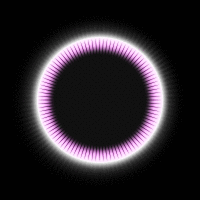
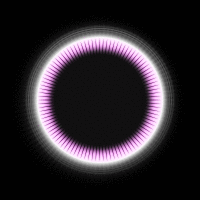
Increase fancyness of fancy progress dialog

diff --git a/dispcalGUI/wxwindows.py b/dispcalGUI/wxwindows.py
@@ -171,13 +171,18 @@ class AnimatedBitmap(wx.PyControl):
 			first_frame, last_frame = self.range
 		else:
 			first_frame, last_frame = 0, -1
+		if first_frame < 0:
+			first_frame += len(self._bitmaps)
 		if last_frame < 0:
 			last_frame += len(self._bitmaps)
-		if self.frame < last_frame:
-			self.frame += 1
+		frame = self.frame
+		if frame < last_frame:
+			frame += 1
 		elif self.loop:
-			self.frame = first_frame
-		self.Refresh()
+			frame = first_frame
+		if frame != self.frame:
+			self.frame = frame
+			self.Refresh()
 
 	def Play(self, fps=20):
 		self._timer.Start(1000.0 / fps)
@@ -3766,11 +3771,51 @@ class BetterPyGauge(pygauge.PyGauge):
 		self.Unbind(wx.EVT_TIMER)
 		self.Bind(EVT_BETTERTIMER, self.OnTimer, self._timer)
 		self.Bind(wx.EVT_WINDOW_DESTROY, self.OnDestroy)
-		self.Start(50)
+		self.Start()
 	
 	def OnDestroy(self, event):
 		self._timer.Stop()
 		del self._timer
+
+	def OnPaint(self, event):
+		"""
+		Handles the ``wx.EVT_PAINT`` event for L{PyGauge}.
+
+		:param `event`: a `wx.PaintEvent` event to be processed.
+		"""
+
+		dc = wx.BufferedPaintDC(self)
+		gc = wx.GraphicsContext.Create(dc)
+		dc.SetBackground(wx.Brush(self.Parent.BackgroundColour))
+		dc.Clear()
+
+		rect = self.GetClientRect()
+
+		if self._border_colour:
+			gc.SetPen(wx.Pen(self._border_colour))
+		else:
+			gc.SetPen(wx.Pen(self.BackgroundColour))
+		gc.SetBrush(wx.Brush(self.BackgroundColour))
+		gc.DrawRoundedRectangle(rect.X, rect.Y, rect.Width - 1,
+								rect.Height - 1, (rect.Height - 1) / 2)
+
+		pad = self.GetBorderPadding()
+		if self._border_colour:
+			pad += 1
+		if pad:
+			rect.Deflate(pad, pad)
+
+		if self._barGradientSorted:
+			for i, gradient in enumerate(self._barGradientSorted):
+				c1, c2 = gradient
+				w = max(rect.Width * (float(self._valueSorted[i]) / self._range),
+						rect.Height)
+				gc.SetBrush(gc.CreateLinearGradientBrush(rect.X, rect.Y,
+														 rect.Y + w,
+														 rect.Y, c1, c2))
+				gc.SetPen(wx.TRANSPARENT_PEN)
+				gc.DrawRoundedRectangle(rect.X, rect.Y, w, rect.Height,
+										(rect.Height) / 2)
 
 	def OnTimer(self, event):
 		gradient = self._barGradient
@@ -4176,7 +4221,7 @@ class ProgressDialog(wx.Dialog):
 	
 	def __init__(self, title=appname, msg="", maximum=100, parent=None, style=None, 
 				 handler=None, keyhandler=None, start_timer=True, pos=None,
-				 pauseable=False, fancy=True):
+				 pauseable=False, fancy=True, allow_close=False):
 		if style is None:
 			style = (wx.PD_APP_MODAL | wx.PD_ELAPSED_TIME |
 					 wx.PD_REMAINING_TIME | wx.PD_CAN_ABORT | wx.PD_SMOOTH)
@@ -4206,6 +4251,7 @@ class ProgressDialog(wx.Dialog):
 		self.skip = False
 		self.paused = False
 		self.progress_type = 0  # 0 = processing, 1 = measurement
+		self.allow_close = allow_close
 
 		margin = 12
 
@@ -4253,8 +4299,7 @@ class ProgressDialog(wx.Dialog):
 		if fancy:
 			self.gauge = BetterPyGauge(self, wx.ID_ANY, range=maximum,
 									   size=(-1, 4))
-			self.gauge.SetBackgroundColour("#202020")
-			self.gauge.SetBorderColour("#0066CC")
+			self.gauge.BackgroundColour = "#003366"
 			self.gauge.SetBarGradients([("#0099CC", "#00CCFF"),
 									    ("#0088BB", "#00BBEE"),
 									    ("#0077AA", "#00AADD"),
@@ -4422,7 +4467,7 @@ class ProgressDialog(wx.Dialog):
 		if hasattr(self, "cancel"):
 			self.cancel.Disable()
 		self.pause_continue.Disable()
-		if not self.timer.IsRunning():
+		if not self.timer.IsRunning() and self.allow_close:
 			self.Destroy()
 		elif self.gauge.GetValue() == self.gauge.GetRange():
 			event.Skip()
@@ -4539,10 +4584,15 @@ class ProgressDialog(wx.Dialog):
 		if self.progress_type == 0:
 			# Processing
 			range = (60, 68)
-		else:
+		elif self.progress_type == 1:
 			# Measuring
+			range = (-1, -1)
+		else:
+			# Generating test patches
 			range = (27, 36)
 		self.animbmp.SetBitmaps(bitmaps, range=range, loop=True)
+		if range[0] == -1:
+			self.animbmp.frame = len(self.animbmp._bitmaps) - 1
 		wx.CallLater(50, lambda: self and self.IsShown() and
 								  self.animbmp.Play(20))
 
@@ -4569,7 +4619,10 @@ class ProgressDialog(wx.Dialog):
 		else:
 			bitmaps = ProgressDialog.bitmaps[progress_type] = []
 			if progress_type == 0:
-				# Processing
+				# Animation for processing
+				for pth in get_data_path("theme/shutter_anim", r"\.png$") or []:
+					im = wx.Image(pth)
+					bitmaps.append(im)
 				for pth in get_data_path("theme/jet_anim", r"\.png$") or []:
 					im = wx.Image(pth)
 					# Blend red
@@ -4577,28 +4630,40 @@ class ProgressDialog(wx.Dialog):
 					# Adjust for background
 					im.AdjustMinMax(1.0 / 255 * 0x14)
 					bitmaps.append(im)
-				# Needs to be exactly 8 images
-				if bitmaps and len(bitmaps) == 8:
+				# Needs to be exactly 17 images
+				if bitmaps and len(bitmaps) == 17:
 					for i in xrange(7):
-						bitmaps.extend(bitmaps[:8])
-					bitmaps.extend(bitmaps[:4])
+						bitmaps.extend(bitmaps[9:17])
+					bitmaps.extend(bitmaps[9:13])
 					# Fade in
-					for i, im in enumerate(bitmaps[:10]):
+					for i, im in enumerate(bitmaps[9:19]):
+						bg = bitmaps[8].ConvertToBitmap()
 						im = im.AdjustChannels(1, 1, 1, i / 10.0)
+						bg.Blend(im.ConvertToBitmap(), 0, 0)
+						bitmaps[i + 9] = bg
+					for i, im in enumerate(bitmaps[:9]):
 						bitmaps[i] = im.ConvertToBitmap()
 					# Normal
-					for i in xrange(50):
-						im = bitmaps[i + 10].Copy()
+					for i in xrange(41):
+						im = bitmaps[i + 19].Copy()
 						im.RotateHue(.05 * (i / 50.0))
-						bitmaps[i + 10] = im.ConvertToBitmap()
+						bitmaps[i + 19] = im.ConvertToBitmap()
 					for i, im in enumerate(bitmaps[60:]):
 						im = im.Copy()
 						im.RotateHue(.05)
 						bitmaps[i + 60] = im.ConvertToBitmap()
 					# Fade out
 					bitmaps.extend(reversed(bitmaps[:60]))
+			elif progress_type == 1:
+				# Animation for measurements
+				for i, pth in enumerate(get_data_path("theme/shutter_anim", r"\.png$") or []):
+					if not i % 2:
+						bmp = wx.Bitmap(pth)
+						bitmaps.append(bmp)
+				if bitmaps and len(bitmaps) == 5:
+					bitmaps.extend(reversed(bitmaps[:5]))
 			else:
-				# Measuring
+				# Animation for generating test patches
 				for pth in get_data_path("theme/patch_anim", r"\.png$") or []:
 					im = wx.Image(pth)
 					bitmaps.append(im)
@@ -4657,6 +4722,8 @@ class ProgressDialog(wx.Dialog):
 		if progress_type != self.progress_type:
 			if self.progress_type == 0:
 				delay = 4000
+			elif self.progress_type == 1:
+				delay = 500
 			else:
 				delay = 2000
 			if hasattr(self, "animbmp"):
@@ -4678,7 +4745,7 @@ class ProgressDialog(wx.Dialog):
 			self.elapsed_timer.Start(1000)
 		if hasattr(self, "animbmp"):
 			self.anim_fadein()
-		if hasattr(self, "sound"):
+		if hasattr(self, "sound") and self.progress_type == 0:
 			self.sound_fadein()
 	
 	def stop_timer(self, immediate=True):
@@ -5449,7 +5516,8 @@ def test():
 	style = (wx.PD_ELAPSED_TIME | wx.PD_REMAINING_TIME | wx.PD_CAN_ABORT |
 			 wx.PD_SMOOTH)
 	p = ProgressDialog(msg="".join(("Test " * 5)), maximum=10000, style=style,
-					   pauseable=True, fancy=not "+fancy" in sys.argv[1:])
+					   pauseable=True, fancy=not "+fancy" in sys.argv[1:],
+					   allow_close=True)
 	#t = SimpleTerminal(start_timer=False)
 	app.MainLoop()
 

diff --git a/dispcalGUI/worker.py b/dispcalGUI/worker.py
@@ -1052,6 +1052,26 @@ class LineCache():
 					  self.cache[-1:])[-self.maxlines - 1:]
 
 
+class Producer(object):
+
+	""" Generic producer """
+
+	def __init__(self, worker, producer, continue_next=False):
+		self.worker = worker
+		self.producer = producer
+		self.continue_next = continue_next
+
+	def __call__(self, *args, **kwargs):
+		result = self.producer(*args, **kwargs)
+		if not self.continue_next and self.worker.progress_wnd:
+			wx.CallAfter(self.worker.progress_wnd.stop_timer, False)
+			if (hasattr(self.worker.progress_wnd, "animbmp") and
+				self.worker.progress_wnd.progress_type == 0):
+				# Allow time for animation fadeout
+				sleep(4)
+		return result
+
+
 class StringWithLengthOverride(UserString):
 
 	""" Allow defined behavior in comparisons and when evaluating length """
@@ -5964,6 +5984,8 @@ usage: spotread [-options] [logfile]
 					self.measurement_sound.safe_play()
 				else:
 					self.commit_sound.safe_play()
+					if hasattr(self.progress_wnd, "animbmp"):
+						self.progress_wnd.animbmp.frame = 0
 
 	def patterngenerator_send(self, rgb, raise_exceptions=False):
 		""" Send RGB color to pattern generator """
@@ -6771,6 +6793,8 @@ usage: spotread [-options] [logfile]
 			if self.pauseable:
 				# If pauseable, we assume it's a measurement
 				progress_type = 1  # Measuring
+			elif self.cmdname == "targen":
+				progress_type = 2  # Generating test patches
 			else:
 				progress_type = 0  # Processing
 			if self.progress_wnd.progress_type != progress_type:
@@ -6882,6 +6906,8 @@ usage: spotread [-options] [logfile]
 			if pauseable:
 				# If pauseable, we assume it's a measurement
 				self.progress_wnd.progress_type = 1  # Measuring
+			elif self.cmdname == "targen":
+				self.progress_wnd.progress_type = 2  # Generating test patches
 			else:
 				self.progress_wnd.progress_type = 0  # Processing
 		if not self.progress_wnd.timer.IsRunning():
@@ -7139,6 +7165,7 @@ usage: spotread [-options] [logfile]
 			# Can't be zero!
 			progress_start = 1
 		self.activated = False
+		self.cmdname = None
 		self.cmdrun = False
 		self.finished = False
 		self.instrument_calibration_complete = False
@@ -7234,8 +7261,9 @@ usage: spotread [-options] [logfile]
 													 progress_msg, parent,
 													 resume, fancy)
 		self.thread = delayedresult.startWorker(self._generic_consumer, 
-												producer, [consumer, 
-														   continue_next] + 
+												Producer(self, producer,
+														 continue_next),
+												[consumer, continue_next] + 
 												list(cargs), ckwargs, wargs, 
 												wkwargs)
 		return True

diff --git a/dispcalGUI/wxaddons.py b/dispcalGUI/wxaddons.py
@@ -28,6 +28,14 @@ def AdjustMinMax(self, minvalue=0.0, maxvalue=1.0):
 wx.Image.AdjustMinMax = AdjustMinMax
 
 
+def Blend(self, bitmap, x, y):
+	""" Blend the given bitmap over the specified position in this bitmap. """
+	dc = wx.MemoryDC(self)
+	dc.DrawBitmap(bitmap, x, y)
+
+wx.Bitmap.Blend = Blend
+
+
 def GetRealClientArea(self):
 	""" Return the real (non-overlapping) client area of a display """
 	# need to fix overlapping ClientArea on some Linux multi-display setups

diff --git a/dispcalGUI/wxfixes.py b/dispcalGUI/wxfixes.py
@@ -110,6 +110,7 @@ if u"phoenix" in wx.PlatformInfo:
 
 	wx.DC.BeginDrawing = lambda self: None
 	wx.DC.DrawRectangleRect = lambda dc, rect: dc.DrawRectangle(rect)
+	wx.DC.DrawRoundedRectangleRect = lambda dc, rect, radius: dc.DrawRoundedRectangle(rect, radius)
 	wx.DC.EndDrawing = lambda self: None
 
 	def ContainsRect(self, *args):
